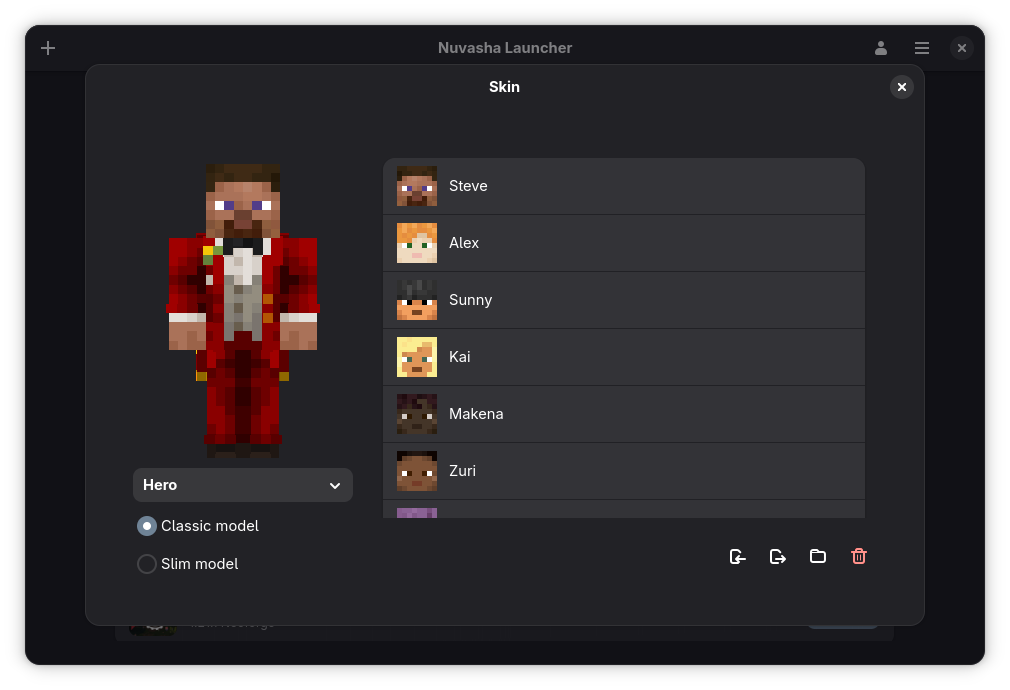
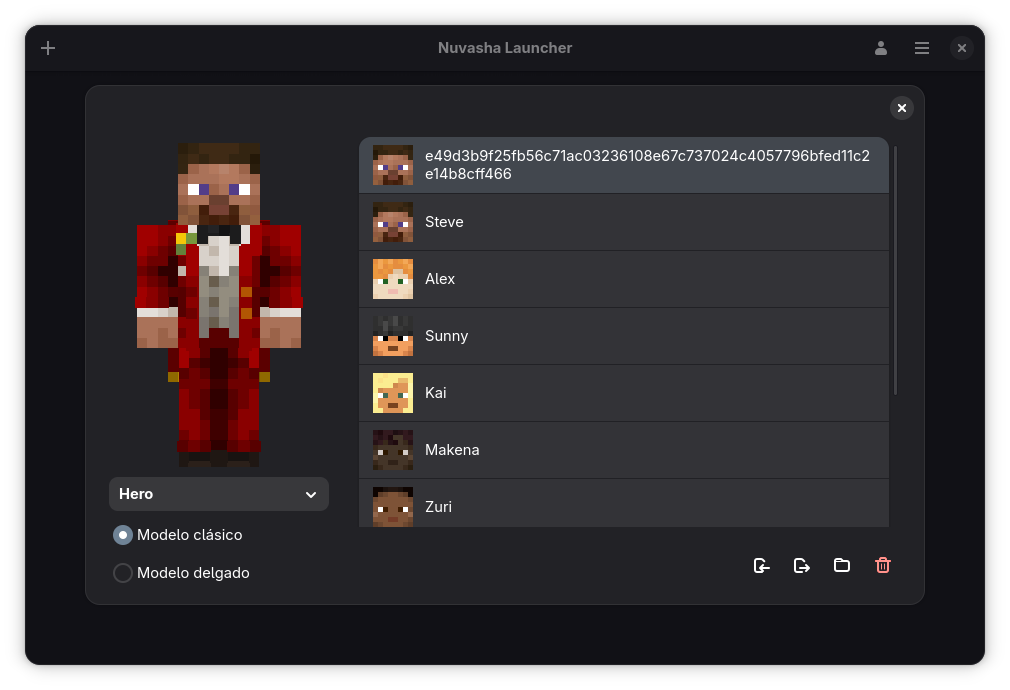
Release 2.0: skin dialog polish, profile skin ordering, and changelog update

diff --git a/src/nuvashalauncher-users-popover-skin.c b/src/nuvashalauncher-users-popover-skin.c
@@ -623,6 +623,8 @@ append_profile_skins (SkinMenu *menu, const char *json)
   JsonNode *root;
   JsonArray *skins;
 
+  int insert_index = 0;
+
   if (!json_parser_load_from_data (parser, json, -1, NULL))
     return;
   root = json_parser_get_root (parser);
@@ -661,7 +663,7 @@ append_profile_skins (SkinMenu *menu, const char *json)
             g_autoptr (AdwActionRow) row = skin_row_new (
               menu, alias != NULL && *alias != '\0' ? alias : fallback_name,
               url);
-            gtk_list_box_append (menu->skins, GTK_WIDGET (row));
+            gtk_list_box_insert (menu->skins, GTK_WIDGET (row), insert_index++);
           }
         }
     }
@@ -1016,9 +1018,10 @@ nuvashalauncher_users_skin_menu_new (NuvashaLauncherUsersPopover *owner, GtkImag
   g_value_unset (&vertical);
   adw_dialog_set_title (dialog, _("Skin"));
   adw_dialog_set_content_width (dialog, 860);
-  adw_dialog_set_content_height (dialog, 560);
+  adw_dialog_set_content_height (dialog, 520);
   gtk_widget_set_size_request (GTK_WIDGET (dialog), 420, 400);
   adw_dialog_add_breakpoint (dialog, g_steal_pointer (&narrow_breakpoint));
+  adw_header_bar_set_show_title (header, FALSE);
   adw_header_bar_set_show_back_button (header, FALSE);
   adw_toolbar_view_add_top_bar (toolbar, GTK_WIDGET (header));
   adw_toolbar_view_set_content (toolbar, GTK_WIDGET (root));
@@ -1038,7 +1041,7 @@ nuvashalauncher_users_skin_menu_new (NuvashaLauncherUsersPopover *owner, GtkImag
           g_autoptr (AdwActionRow) row =
             skin_row_new (data, avatar_skin_name, account->avatar_url);
           data->current_skin_row = row;
-          gtk_list_box_append (skins, GTK_WIDGET (row));
+          gtk_list_box_insert (skins, GTK_WIDGET (row), 0);
         }
     }
   data->applying_profile = TRUE;

diff --git a/CHANGELOG.md b/CHANGELOG.md
@@ -23,6 +23,8 @@ All notable changes to Nuvasha Launcher are documented in this file.
 - **Direct Version-Picker Downloads**: Updated version pickers across mods, resource packs, shader packs, datapacks, and modpacks to use a per-row **Download** button with an inline `AdwSpinner`, starting downloads directly without closing the dialog or showing redundant confirmation popups.
 - **Persistent Batch Selection & Open Modpack Browser**: Multi-selected items across all Modrinth browsers now remain selected until **Install** is confirmed, and batch-installing modpacks starts downloads in the background without auto-closing the modpack dialog.
 - **`pack.png` Default Icons & Instant Cached Scrolling**: Switched fallback icons for servers, mods, resource packs, shader packs, datapacks, and modpacks to `pack.png`, applied disk-cached icons synchronously on row creation, added an `800px` scroll preload margin, and increased the in-memory texture cache to 1024 entries to eliminate icon flicker during fast scrolling.
+- **Extracted Folder Packs & Resource Pack Naming**: Detected extracted resource pack, datapack (`pack.mcmeta`), and shader pack (`shaders/`) directories alongside `.zip` archives in the **Installed** tab, and displayed installed resource packs by their folder/file name (excluding `.zip`).
+- **Skin Dialog Polish**: Hid the redundant `"Skin"` header title while keeping the close button, tightened dialog spacing, and placed fetched Microsoft account skins at the top of the skin list above the default skins.
 
 ### Dependencies, Cache & Localization Fixes
 - **Modpack & Fabric Dependency Tracking**: Persisted `local_id` and `provided_ids` (`provides` aliases and Jar-in-Jar bundled sub-modules from `fabric.mod.json`/`quilt.mod.json`) in `.index` and switched dependent lookup to transitive resolution, fixing dependent listing and cleanup for modpack mods (such as Fabric API dependents).
